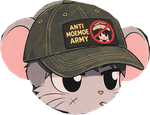
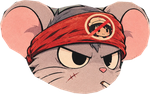
Moe Army: bandana mouse in a dark grey uniform, GET A MOE links to Scatter

diff --git a/moearmy/index.html b/moearmy/index.html
@@ -88,7 +88,7 @@
 "use strict";
 
 // ---------- setup ----------
-const SCATTER_URL = "";          // the moemoe collection on Scatter (GET A MOE button hides while this is empty)
+const SCATTER_URL = "https://www.scatter.art/c/moemoe-llc?shill=egg";   // GET A MOE button (hidden if empty)
 const SITE_URL = "https://www.81eggs.com/moearmy/";
 const BOARD = "moe-army";
 const BEST_KEY = "moearmy_best", MUTE_KEY = "moearmy_mute";
@@ -286,8 +286,8 @@ const HAPPY_CLOUD = sprite([
   "..SSSSSSSSSSSS..",
 ]);
 
-// the Anti Moemoe mouse army: the cut-out mouse head (assets/mouse_head.png) on a darker uniform
-// with a red armband. Loved mice switch to the Moe army's green and blush pink.
+// the Anti Moemoe mouse army: the bandana mouse head (assets/mouse_head.png) on a dark grey uniform
+// with tan trim, a shoulder strap and a cream armband. Loved mice switch to the Moe army's green and blush pink.
 const MOUSE_HEAD = new Image();
 MOUSE_HEAD.src = "assets/mouse_head.png";
 const mouseReady = () => MOUSE_HEAD.complete && MOUSE_HEAD.naturalWidth > 0;
@@ -303,17 +303,18 @@ function tinted(img, col) {
 }
 MOUSE_HEAD.onload = () => { MOUSE_W = tinted(MOUSE_HEAD, "#fff"); MOUSE_PINK = tinted(MOUSE_HEAD, "#ff7eb6"); };
 const MOUSE_BODY_ROWS = BODY.map((r, i) => {
-  const a = r.split("");
-  if (i >= 3 && i <= 5) a[13] = "r";                 // armband
-  if (i === 4) { a[10] = "k"; a[11] = "y"; }          // round Anti Moemoe badge
-  if (i === 7) { a[1] = a[2] = a[13] = a[14] = "f"; } // furry grey hands
+  const a = r.split("").map((c) => (c === "r" || c === "b" ? "t" : c));   // tan collar trim and buttons
+  if (i >= 1 && i <= 8 && a[3 + i] !== ".") a[3 + i] = "s";             // strap, shoulder to hip
+  if (i >= 3 && i <= 5) a[13] = "c";                                     // cream armband
+  if (i === 4) { a[10] = "k"; a[11] = "k"; }                             // black Anti Moemoe badge
+  if (i === 7) { a[1] = a[2] = a[13] = a[14] = "f"; }                    // furry grey hands
   return a.join("");
 });
-const MOUSE_FUR = { f: "#cfc6cc" };
-const MOUSE_BODY = LEGS.map((l) => sprite(MOUSE_BODY_ROWS.concat(l), Object.assign({ g: "#5b6438", G: "#3a4023" }, MOUSE_FUR)));
-const MOUSE_BODY_LOVED = LEGS.map((l) => sprite(MOUSE_BODY_ROWS.concat(l), Object.assign({ r: "#ff7eb6" }, MOUSE_FUR)));
+const MOUSE_FUR = { f: "#cfc6cc", t: "#d9c08a", s: "#b89a62", c: "#efe3c4" };
+const MOUSE_BODY = LEGS.map((l) => sprite(MOUSE_BODY_ROWS.concat(l), Object.assign({ g: "#4a4d5a", G: "#2d2f38" }, MOUSE_FUR)));
+const MOUSE_BODY_LOVED = LEGS.map((l) => sprite(MOUSE_BODY_ROWS.concat(l), Object.assign({}, MOUSE_FUR, { c: "#ff7eb6" })));
 const MOUSE_BODY_W = white(MOUSE_BODY[0]);
-const MOUSE_HW = 30;   // head drawn 30 game pixels wide
+const MOUSE_HW = 32;   // head drawn 32 game pixels wide
 
 function drawMouseHead(cx, bottom, w, flash, loved) {
   if (!mouseReady()) return;

diff --git a/moearmy/build_assets.py b/moearmy/build_assets.py
@@ -95,15 +95,14 @@ def main():
 
 
 # The mouse has clean black outlines, so a hand-traced outline (source-picture coords) is the whole cut:
-# ears, cap and face down to the chin. Whiskers and the cigarette are left out.
+# ears, bandana and face down to the chin. Whiskers and the cigarette are left out.
 MOUSE_SRC = os.path.expanduser("~/Desktop/moearmy/mouse.webp")
-MOUSE_OUTLINE = [
-    (420, 95), (480, 85), (520, 85), (600, 100), (700, 120), (800, 170), (870, 230), (885, 280),
-    (950, 265), (1020, 285), (1065, 335), (1085, 420), (1078, 500), (1055, 560), (1010, 615),
-    (950, 648), (890, 650), (880, 690), (870, 720), (830, 775), (780, 810), (720, 845), (640, 875),
-    (560, 885), (480, 870), (410, 840), (350, 805), (310, 770), (265, 720), (270, 690), (250, 645),
-    (180, 630), (110, 580), (60, 500), (42, 420), (55, 330), (100, 265), (160, 225), (220, 205),
-    (270, 205), (300, 165), (360, 115),
+MOUSE_OUTLINE = [   # the bandana mouse: ears, bandana and knot (tails cut short), face down to the chin
+    (170, 220), (230, 205), (330, 215), (410, 255), (455, 262), (500, 250), (590, 235), (640, 242),
+    (700, 258), (760, 255), (850, 215), (950, 220), (1030, 268), (1065, 340), (1072, 430), (1052, 520),
+    (1010, 580), (950, 612), (895, 618), (880, 660), (870, 705), (840, 750), (790, 795), (720, 828),
+    (640, 842), (560, 835), (470, 810), (400, 778), (340, 745), (300, 725), (275, 690), (255, 650),
+    (240, 610), (200, 575), (130, 535), (80, 460), (65, 370), (95, 285),
 ]
 MOUSE_WIDTH = 150   # drawn about 30 game pixels wide (the ears make it wider than a Moe head)
 

diff --git a/CLAUDE.md b/CLAUDE.md
@@ -16,7 +16,7 @@ Each project folder has its own `CLAUDE.md`. Read it before working there.
 | `bubbles/` | **Tomochi Pop** bubble shooter (folder name kept from "Bubble Pop") | live |
 | `moetorcycles/` | **MOEtorcycles** endless runner | live |
 | `moecastle/` | **Defend Your LLC**, a Defend Your Castle remake starring the Moe Fights roster. `build_assets.py` makes `assets/` | live |
-| `moearmy/` | **MOEMOE ARMY**, a phone-first top-down shooter for the moemoe army PFP push on Scatter: you fire yellow (Bradley) hearts instead of bullets, free caged Moes to grow a V-formation squad, and "love" the enemy: the **Anti Moemoe mouse army** (mice only, never rats), gloom clouds and mouse-driven tanks. Leaderboard `moe-army`, Share on X button. `SCATTER_URL` at the top turns on the GET A MOE button. Soldiers are a hand-pixelled head (from the soldier art) on a uniform body; the real cut-out head is the default face (the title FACE button switches to the pixel one), `assets/head_photo.png`, made by `build_assets.py` from `~/Desktop/moearmy/soldier.jpg`; the mouse head `assets/mouse_head.png` comes from `~/Desktop/moearmy/mouse.webp`. `?debug` exposes `window.__army` | not linked yet |
+| `moearmy/` | **MOEMOE ARMY**, a phone-first top-down shooter for the moemoe army PFP push on Scatter: you fire yellow (Bradley) hearts instead of bullets, free caged Moes to grow a V-formation squad, and "love" the enemy: the **Anti Moemoe mouse army** (mice only, never rats), gloom clouds and mouse-driven tanks. Leaderboard `moe-army`, Share on X button. `SCATTER_URL` at the top is the GET A MOE button's link (the moemoe LLC collection on Scatter). Soldiers are a hand-pixelled head (from the soldier art) on a uniform body; the real cut-out head is the default face (the title FACE button switches to the pixel one), `assets/head_photo.png`, made by `build_assets.py` from `~/Desktop/moearmy/soldier.jpg`; the mouse head `assets/mouse_head.png` (red bandana, dark grey uniform, so it doesn't look like the Moe army) comes from `~/Desktop/moearmy/mouse.webp`. `?debug` exposes `window.__army` | not linked yet |
 | `moekedex/` | **Moekedex**, a Pokédex for the moemoe LLC NFTs | live |
 | `dreamthings/` | **Dream Things**, a dex for the Yumemono NFTs. `build_data.py` makes `data.js` | live |
 | `blorps/` | **The Blorp Museum**, a 90s-web art museum for the 205 Blorp (blue alien) Moes. Reads `moekedex/data.js`, so it needs no data of its own. "My Collection" and the guestbook save in the visitor's browser only. `screensaver.html` is the Blorp screensaver (warp starfield, flies your own Blorps if My Collection has any). `patrol.html` is **Blorp Patrol** (**this Mac only for now**: it's in `.vercelignore` and the museum only shows its button on localhost), a jetpack game: fly into the mothership tube with the right answer (spot the human, find this Blorp, name the trait, pick the rarest). `?debug` exposes `window.__patrol` for testing | live |
